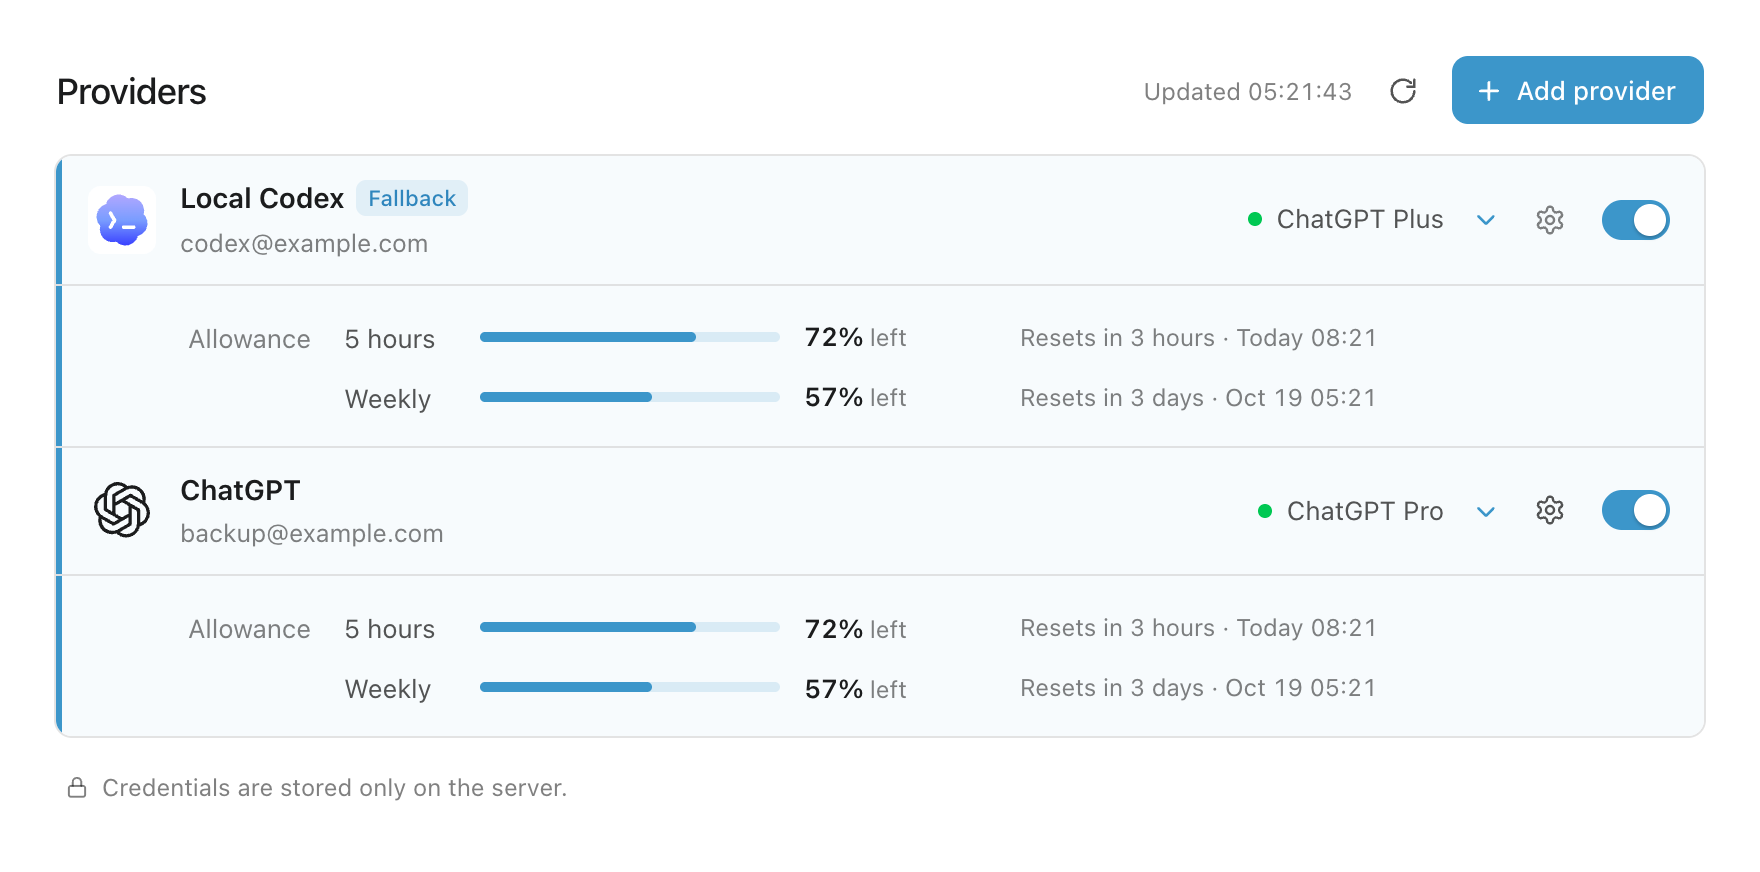
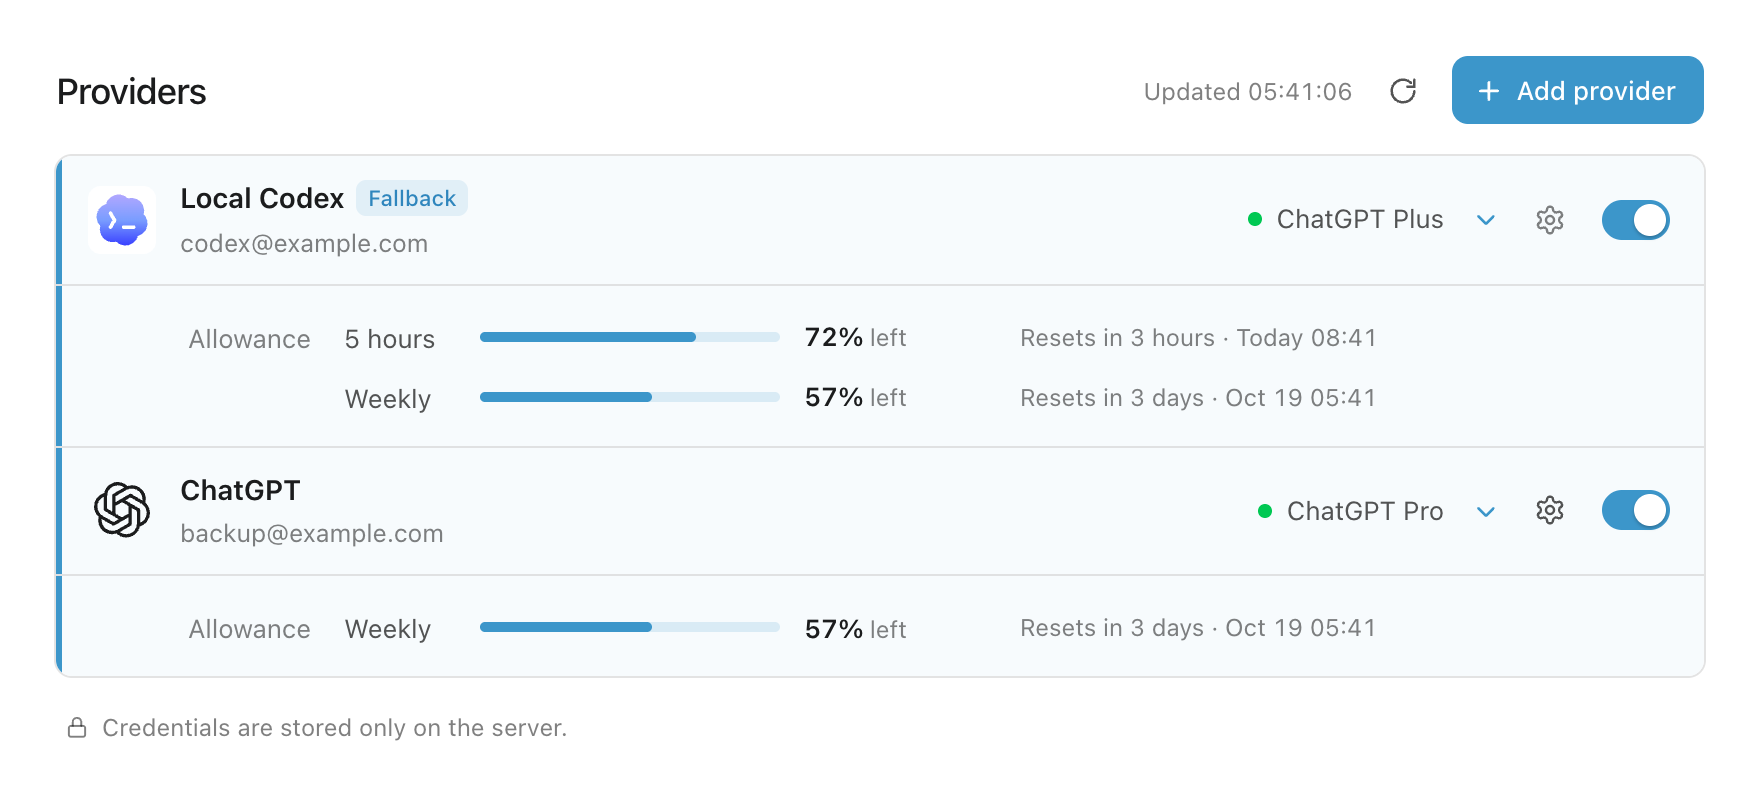
docs: update marketplace description and correct quota examples

diff --git a/images/README.md b/images/README.md
@@ -1,7 +1,8 @@
 # README screenshots
 
-The provider screenshots were captured on 2026-10-16 from main commit
-`1d173430f47c45e2e37745104bded81a4e059aa2`.
+The provider screenshots were captured on 2026-10-16. The overview was refreshed
+from main commit `87d0fa6dfb67dd5dfe08233897eb3d03d861e9d2`; the settings dialog
+was captured from `1d173430f47c45e2e37745104bded81a4e059aa2`.
 
 - `providers-overview-zh.png` / `providers-overview-en.png`: two independent
   allowance panels expanded, with source settings and enable controls visible.
@@ -10,8 +11,9 @@ The provider screenshots were captured on 2026-10-16 from main commit
 
 These are browser captures of the unchanged production HTML, CSS, JavaScript,
 and icons in `pages/providers/`. A temporary local bridge fixture supplied
-sample accounts (`codex@example.com` and `backup@example.com`) and allowance
-values. No real credentials, sign-in sessions, or model requests were used.
+sample accounts: Plus (`codex@example.com`) with five-hour and weekly windows,
+and Pro (`backup@example.com`) with a weekly window only. Allowance values are
+examples. No real credentials, sign-in sessions, or model requests were used.
 The README captions identify these values as examples.
 
 Capture settings: headless Chrome, a 1024 × 800 CSS-pixel viewport, 2× device
